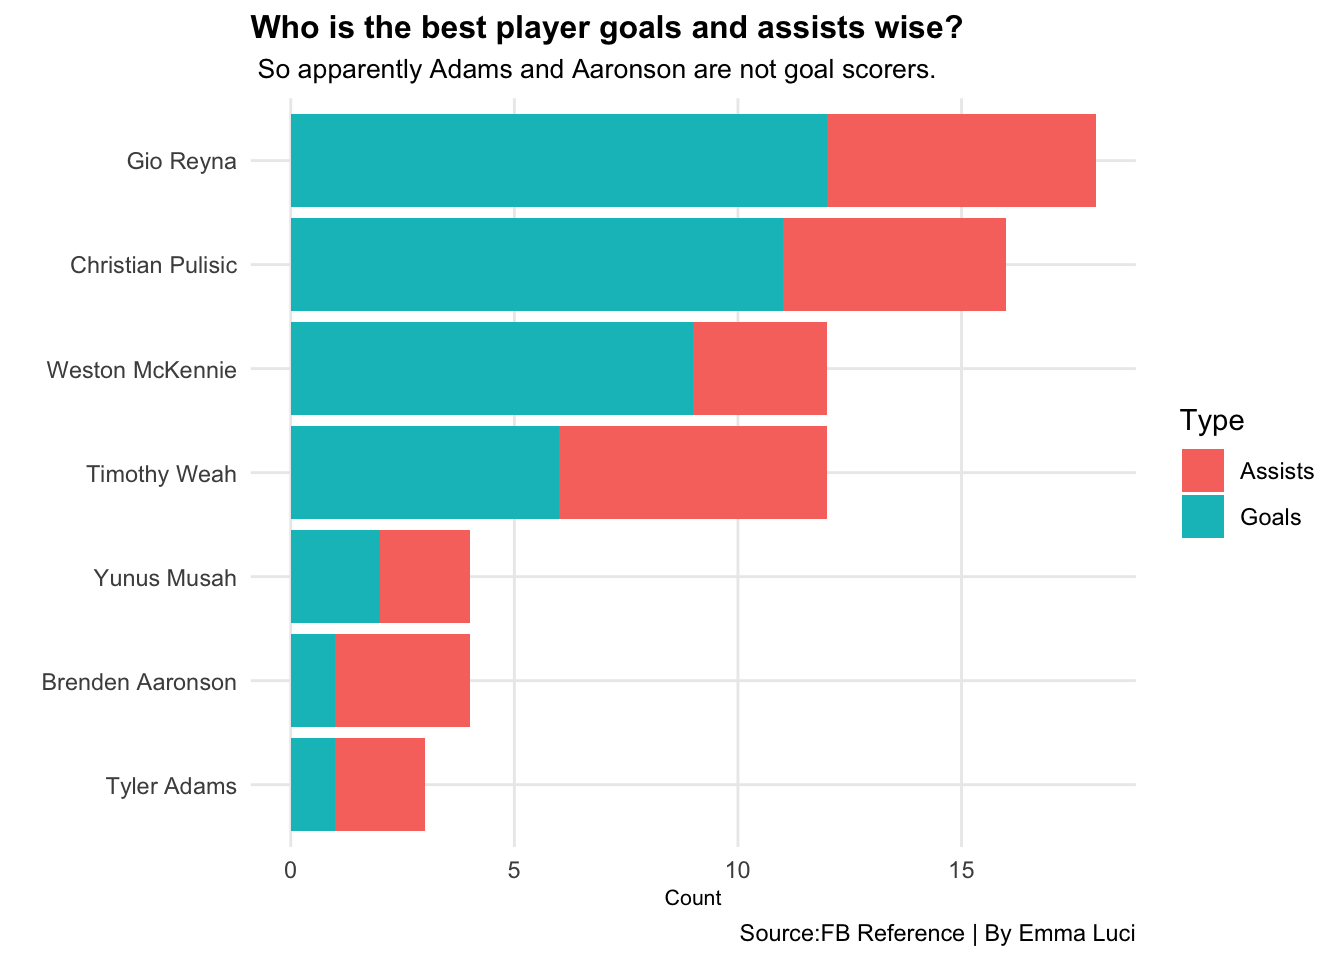
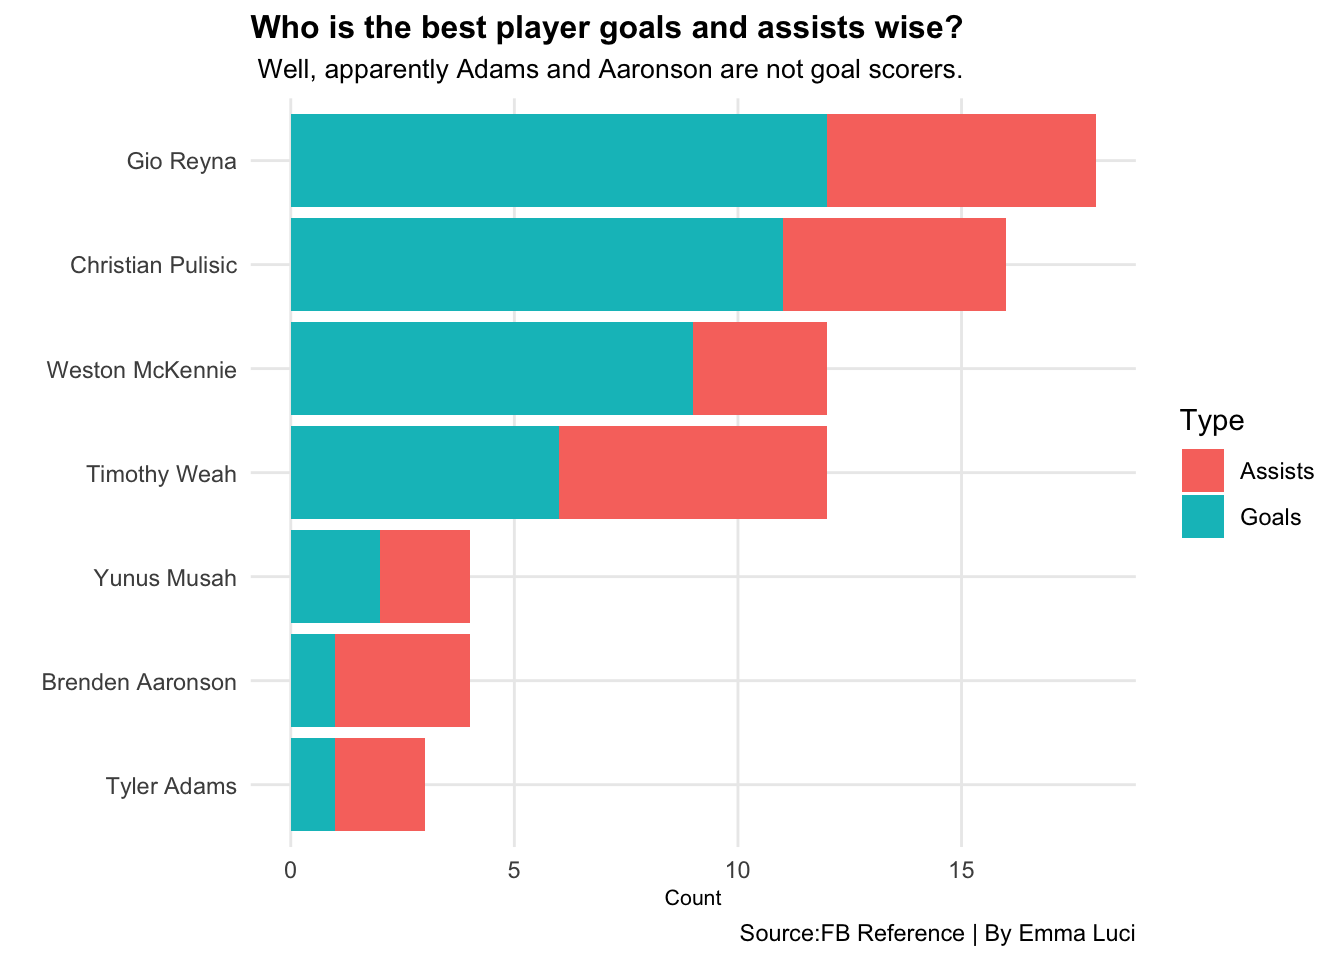
yeah

Changed region(s): [[0.1875, 0.0625, 0.7188, 0.0938]]

diff --git a/posts/christian-pulisic/index.html b/posts/christian-pulisic/index.html
@@ -233,11 +233,11 @@ code span.wa { color: #60a0b0; font-weight: bold; font-style: italic; } /* Warni
 </div>
 <details>
 <summary>Code</summary>
-<div class="sourceCode cell-code" id="cb5"><pre class="sourceCode r code-with-copy"><code class="sourceCode r"><span id="cb5-1"><a href="#cb5-1" aria-hidden="true" tabindex="-1"></a><span class="co">#this is where the start of blog would be for future edits in work </span></span></code><button title="Copy to Clipboard" class="code-copy-button"><i class="bi"></i></button></pre></div>
+<div class="sourceCode cell-code" id="cb5"><pre class="sourceCode r code-with-copy"><code class="sourceCode r"><span id="cb5-1"><a href="#cb5-1" aria-hidden="true" tabindex="-1"></a><span class="fu">library</span>(ggrepel)</span></code><button title="Copy to Clipboard" class="code-copy-button"><i class="bi"></i></button></pre></div>
 </details>
 </div>
-<p>intro to blog probs dont forget to add a picture to ur website</p>
-<p>Christian Pulisic, nicknamed Captain America by US fans, has been a men's national team star for years, but is he the best? If you don’t know who he is, you should. The poster boy from the World Cup '22 in Qatar, and compared to as the "Gareth Bale of Wales" from World Soccer Talk, Pulisic is known for his talents and for making his own way up through the ranks of Borrisa Dortmund from the age of 16. Eddie Johnson, a former US player who retired in 2015 said that Pulisic is the best player that he has seen since playing soccer as a kid in the States, and Johnson had played with big names like Claudio Reyna, Clint Dempsey, and Landon Donovan. "Where he's at now, with his experience and how he sees the game he's miles ahead of everyone else," Johnson said. Fans of Pulisic are dismayed with his move to Chelsea, with there being a bias against American players in Europe where their talent and potential often is amounted to much less hype in the foreign country. Because of Pulisic's natural talent, he should be starting for a top club. Unfortunately, his move to Chelsea is the last thing that he needed, going to a club that is notorious for often dispensing coaches. Since his time at Chelsea, he has seen three different coaches, none of which have trusted him to be a starter.&nbsp;</p>
+<p>dont forget to add a picture to ur website!!!</p>
+<p>Christian Pulisic, nicknamed Captain America by US fans, has been a men’s national team star for years, but is he the best? If you don’t know who he is, you should. The poster boy from the World Cup ’22 in Qatar, and compared to as the “Gareth Bale of Wales” from World Soccer Talk, Pulisic is known for his talents and for making his own way up through the ranks of Borrisa Dortmund from the age of 16. Eddie Johnson, a former US player who retired in 2015 said that Pulisic is the best player that he has seen since playing soccer as a kid in the States, and Johnson had played with big names like Claudio Reyna, Clint Dempsey, and Landon Donovan. “Where he’s at now, with his experience and how he sees the game he’s miles ahead of everyone else,” Johnson said. Fans of Pulisic are dismayed with his move to Chelsea, with there being a bias against American players in Europe where their talent and potential often is amounted to much less hype in the foreign country. Because of Pulisic’s natural talent, he should be starting for a top club. Unfortunately, his move to Chelsea is the last thing that he needed, going to a club that is notorious for often dispensing coaches. Since his time at Chelsea, he has seen three different coaches, none of which have trusted him to be a starter.</p>
 <p><br>
 </p>
 <div class="cell">
@@ -298,7 +298,7 @@ code span.wa { color: #60a0b0; font-weight: bold; font-style: italic; } /* Warni
 <span id="cb12-15"><a href="#cb12-15" aria-hidden="true" tabindex="-1"></a>  <span class="fu">coord_flip</span>() <span class="sc">+</span></span>
 <span id="cb12-16"><a href="#cb12-16" aria-hidden="true" tabindex="-1"></a><span class="fu">labs</span>(</span>
 <span id="cb12-17"><a href="#cb12-17" aria-hidden="true" tabindex="-1"></a>    <span class="at">title=</span><span class="st">"Who is the best player goals and assists wise?"</span>, </span>
-<span id="cb12-18"><a href="#cb12-18" aria-hidden="true" tabindex="-1"></a>    <span class="at">subtitle=</span><span class="st">" So apparently Adams and Aaronson are not goal scorers."</span>,</span>
+<span id="cb12-18"><a href="#cb12-18" aria-hidden="true" tabindex="-1"></a>    <span class="at">subtitle=</span><span class="st">" Well, apparently Adams and Aaronson are not goal scorers."</span>,</span>
 <span id="cb12-19"><a href="#cb12-19" aria-hidden="true" tabindex="-1"></a>    <span class="at">caption=</span><span class="st">"Source:FB Reference | By Emma Luci"</span>,</span>
 <span id="cb12-20"><a href="#cb12-20" aria-hidden="true" tabindex="-1"></a>    <span class="at">x=</span><span class="st">""</span>, </span>
 <span id="cb12-21"><a href="#cb12-21" aria-hidden="true" tabindex="-1"></a>    <span class="at">y=</span><span class="st">"Count"</span>) <span class="sc">+</span> </span>
@@ -314,31 +314,33 @@ code span.wa { color: #60a0b0; font-weight: bold; font-style: italic; } /* Warni
 <p><img src="index_files/figure-html/unnamed-chunk-7-1.png" class="img-fluid" width="672"></p>
 </div>
 </div>
-<p>Even though his talents are overlooked in Europe, dedicated US fans that have followed his journey know how skilled he is and the potential as a player that he holds still in club play. As a member of the national team, Pulisic has had great success since 2016. Compared to top players Reyna, McKennie, Weah, Musah, Aaronson, and Adams, Pulisic holds his own as a top goal-scorer and with assisted goals in games. Yet, Gio Reyna somehow has him beat numbers-wise in this area by just a tinch on the assists side, which could be expected in some instances. Players like Weah, Musah, Aaronson, and Adams seem to be more dominant in their assists as well, playing both midfield and forward positions on the pitch.</p>
+<p>Even though his talents are overlooked in Europe, dedicated US fans that have followed his journey know how skilled he is and the potential as a player that he holds still in club play. As a member of the national team, Pulisic has had great success since 2016. Compared to top players Reyna, McKennie, Weah, Musah, Aaronson, and Adams, Pulisic holds his own as a top goal-scorer and with assisted goals in games. Yet, Gio Reyna somehow has him beat numbers-wise in this area by just by a bit on the assists side, which could be expected in some instances. Players like Weah, Musah, Aaronson, and Adams seem to be more dominant in their assists as well, playing both midfield and forward positions on the pitch.</p>
 <p><br>
 </p>
 <div class="cell">
 <details>
 <summary>Code</summary>
-<div class="sourceCode cell-code" id="cb13"><pre class="sourceCode r code-with-copy"><code class="sourceCode r"><span id="cb13-1"><a href="#cb13-1" aria-hidden="true" tabindex="-1"></a><span class="co">#Encircling (Adams) on scatter plot to show who the best touches of American players</span></span>
+<div class="sourceCode cell-code" id="cb13"><pre class="sourceCode r code-with-copy"><code class="sourceCode r"><span id="cb13-1"><a href="#cb13-1" aria-hidden="true" tabindex="-1"></a><span class="co">#Encircling on scatter plot to show who the best touches of American players</span></span>
 <span id="cb13-2"><a href="#cb13-2" aria-hidden="true" tabindex="-1"></a>pulisic <span class="ot">&lt;-</span> americapossession <span class="sc">%&gt;%</span> <span class="fu">filter</span>(Player <span class="sc">==</span> <span class="st">"Christian Pulisic"</span> <span class="sc">|</span> Player <span class="sc">==</span> <span class="st">"Gio Reyna"</span>)</span>
 <span id="cb13-3"><a href="#cb13-3" aria-hidden="true" tabindex="-1"></a></span>
 <span id="cb13-4"><a href="#cb13-4" aria-hidden="true" tabindex="-1"></a><span class="fu">ggplot</span>() <span class="sc">+</span> </span>
 <span id="cb13-5"><a href="#cb13-5" aria-hidden="true" tabindex="-1"></a>  <span class="fu">geom_point</span>(<span class="at">data=</span>big5_player_possession, <span class="fu">aes</span>(<span class="at">x=</span>Mins_Per_90, <span class="at">y=</span>Touches_Touches), <span class="at">color=</span><span class="st">"grey"</span>) <span class="sc">+</span> </span>
 <span id="cb13-6"><a href="#cb13-6" aria-hidden="true" tabindex="-1"></a>  <span class="fu">geom_point</span>(<span class="at">data=</span>americapossession, <span class="fu">aes</span>(<span class="at">x=</span>Mins_Per_90, <span class="at">y=</span>Touches_Touches), <span class="at">color=</span><span class="st">"black"</span>) <span class="sc">+</span> </span>
-<span id="cb13-7"><a href="#cb13-7" aria-hidden="true" tabindex="-1"></a>  <span class="fu">geom_encircle</span>(<span class="at">data=</span>pulisic, <span class="fu">aes</span>(<span class="at">x=</span>Mins_Per_90, <span class="at">y=</span>Touches_Touches), <span class="at">s_shape=</span><span class="dv">0</span>, <span class="at">expand=</span><span class="dv">0</span>, <span class="at">colour=</span><span class="st">"red"</span>) <span class="sc">+</span> <span class="fu">labs</span>(</span>
-<span id="cb13-8"><a href="#cb13-8" aria-hidden="true" tabindex="-1"></a>    <span class="at">title=</span><span class="st">"Who has the best number of touches?"</span>, </span>
-<span id="cb13-9"><a href="#cb13-9" aria-hidden="true" tabindex="-1"></a>    <span class="at">subtitle=</span><span class="st">" Shockingly, we see that Pulisic and Reyna are not at the top."</span>,</span>
-<span id="cb13-10"><a href="#cb13-10" aria-hidden="true" tabindex="-1"></a>    <span class="at">caption=</span><span class="st">"Source:FB Reference | By Emma Luci"</span>,</span>
-<span id="cb13-11"><a href="#cb13-11" aria-hidden="true" tabindex="-1"></a>    <span class="at">x=</span><span class="st">"Mins_Per_90"</span>, </span>
-<span id="cb13-12"><a href="#cb13-12" aria-hidden="true" tabindex="-1"></a>    <span class="at">y=</span><span class="st">"Touches"</span>) <span class="sc">+</span> </span>
-<span id="cb13-13"><a href="#cb13-13" aria-hidden="true" tabindex="-1"></a><span class="fu">theme_minimal</span>() <span class="sc">+</span></span>
-<span id="cb13-14"><a href="#cb13-14" aria-hidden="true" tabindex="-1"></a>  <span class="fu">theme</span>(</span>
-<span id="cb13-15"><a href="#cb13-15" aria-hidden="true" tabindex="-1"></a>   <span class="at">plot.title =</span> <span class="fu">element_text</span>(<span class="at">size =</span> <span class="dv">14</span>, <span class="at">face =</span> <span class="st">"bold"</span>),</span>
-<span id="cb13-16"><a href="#cb13-16" aria-hidden="true" tabindex="-1"></a>    <span class="at">axis.title =</span> <span class="fu">element_text</span>(<span class="at">size =</span> <span class="dv">10</span>), </span>
-<span id="cb13-17"><a href="#cb13-17" aria-hidden="true" tabindex="-1"></a>    <span class="at">plot.subtitle =</span> <span class="fu">element_text</span>(<span class="at">size=</span><span class="dv">10</span>), </span>
-<span id="cb13-18"><a href="#cb13-18" aria-hidden="true" tabindex="-1"></a>    <span class="at">panel.grid.minor =</span> <span class="fu">element_blank</span>()</span>
-<span id="cb13-19"><a href="#cb13-19" aria-hidden="true" tabindex="-1"></a>    ) </span></code><button title="Copy to Clipboard" class="code-copy-button"><i class="bi"></i></button></pre></div>
+<span id="cb13-7"><a href="#cb13-7" aria-hidden="true" tabindex="-1"></a>  <span class="fu">geom_encircle</span>(<span class="at">data=</span>pulisic, <span class="fu">aes</span>(<span class="at">x=</span>Mins_Per_90, <span class="at">y=</span>Touches_Touches), <span class="at">s_shape=</span><span class="dv">0</span>, <span class="at">expand=</span><span class="dv">0</span>, <span class="at">colour=</span><span class="st">"red"</span>) <span class="sc">+</span></span>
+<span id="cb13-8"><a href="#cb13-8" aria-hidden="true" tabindex="-1"></a>  <span class="fu">geom_text_repel</span>(<span class="at">data=</span>pulisic, <span class="fu">aes</span>(<span class="at">x=</span>Mins_Per_90, <span class="at">y=</span>Touches_Touches, <span class="at">label=</span><span class="st">"pulisic"</span>)) <span class="sc">+</span> </span>
+<span id="cb13-9"><a href="#cb13-9" aria-hidden="true" tabindex="-1"></a>  <span class="fu">labs</span>(</span>
+<span id="cb13-10"><a href="#cb13-10" aria-hidden="true" tabindex="-1"></a>    <span class="at">title=</span><span class="st">"Which player has the best number of touches?"</span>, </span>
+<span id="cb13-11"><a href="#cb13-11" aria-hidden="true" tabindex="-1"></a>    <span class="at">subtitle=</span><span class="st">" Shockingly, we see that Pulisic and Reyna are not at the top."</span>,</span>
+<span id="cb13-12"><a href="#cb13-12" aria-hidden="true" tabindex="-1"></a>    <span class="at">caption=</span><span class="st">"Source:FB Reference | By Emma Luci"</span>,</span>
+<span id="cb13-13"><a href="#cb13-13" aria-hidden="true" tabindex="-1"></a>    <span class="at">x=</span><span class="st">"Mins_Per_90"</span>, </span>
+<span id="cb13-14"><a href="#cb13-14" aria-hidden="true" tabindex="-1"></a>    <span class="at">y=</span><span class="st">"Touches"</span>) <span class="sc">+</span> </span>
+<span id="cb13-15"><a href="#cb13-15" aria-hidden="true" tabindex="-1"></a><span class="fu">theme_minimal</span>() <span class="sc">+</span></span>
+<span id="cb13-16"><a href="#cb13-16" aria-hidden="true" tabindex="-1"></a>  <span class="fu">theme</span>(</span>
+<span id="cb13-17"><a href="#cb13-17" aria-hidden="true" tabindex="-1"></a>   <span class="at">plot.title =</span> <span class="fu">element_text</span>(<span class="at">size =</span> <span class="dv">14</span>, <span class="at">face =</span> <span class="st">"bold"</span>),</span>
+<span id="cb13-18"><a href="#cb13-18" aria-hidden="true" tabindex="-1"></a>    <span class="at">axis.title =</span> <span class="fu">element_text</span>(<span class="at">size =</span> <span class="dv">10</span>), </span>
+<span id="cb13-19"><a href="#cb13-19" aria-hidden="true" tabindex="-1"></a>    <span class="at">plot.subtitle =</span> <span class="fu">element_text</span>(<span class="at">size=</span><span class="dv">10</span>), </span>
+<span id="cb13-20"><a href="#cb13-20" aria-hidden="true" tabindex="-1"></a>    <span class="at">panel.grid.minor =</span> <span class="fu">element_blank</span>()</span>
+<span id="cb13-21"><a href="#cb13-21" aria-hidden="true" tabindex="-1"></a>    ) </span></code><button title="Copy to Clipboard" class="code-copy-button"><i class="bi"></i></button></pre></div>
 </details>
 <div class="cell-output cell-output-stderr">
 <pre><code>Warning: Removed 11 rows containing missing values (`geom_point()`).</code></pre>
@@ -347,7 +349,7 @@ code span.wa { color: #60a0b0; font-weight: bold; font-style: italic; } /* Warni
 <p><img src="index_files/figure-html/unnamed-chunk-8-1.png" class="img-fluid" width="672"></p>
 </div>
 </div>
-<p>Blog and make sure your labels are good</p>
+<p>Blogging now and make sure your labels are good here</p>
 <div class="cell">
 <details>
 <summary>Code</summary>
@@ -363,8 +365,8 @@ code span.wa { color: #60a0b0; font-weight: bold; font-style: italic; } /* Warni
 <span id="cb15-10"><a href="#cb15-10" aria-hidden="true" tabindex="-1"></a>      <span class="at">weight=</span>xG_Expected</span>
 <span id="cb15-11"><a href="#cb15-11" aria-hidden="true" tabindex="-1"></a>    )) <span class="sc">+</span> <span class="fu">facet_wrap</span>(<span class="sc">~</span>Squad) <span class="sc">+</span></span>
 <span id="cb15-12"><a href="#cb15-12" aria-hidden="true" tabindex="-1"></a><span class="fu">labs</span>(</span>
-<span id="cb15-13"><a href="#cb15-13" aria-hidden="true" tabindex="-1"></a>    <span class="at">title=</span><span class="st">"What player is the most valuale to their other league"</span>, </span>
-<span id="cb15-14"><a href="#cb15-14" aria-hidden="true" tabindex="-1"></a>    <span class="at">subtitle=</span><span class="st">"Meh we will see what happens."</span>,</span>
+<span id="cb15-13"><a href="#cb15-13" aria-hidden="true" tabindex="-1"></a>    <span class="at">title=</span><span class="st">"What player is the most valuable to their club team?"</span>, </span>
+<span id="cb15-14"><a href="#cb15-14" aria-hidden="true" tabindex="-1"></a>    <span class="at">subtitle=</span><span class="st">"Meh we will see what happens"</span>,</span>
 <span id="cb15-15"><a href="#cb15-15" aria-hidden="true" tabindex="-1"></a>    <span class="at">caption=</span><span class="st">"Source:FB Reference | By Emma Luci"</span>,</span>
 <span id="cb15-16"><a href="#cb15-16" aria-hidden="true" tabindex="-1"></a>    <span class="at">x=</span><span class="st">""</span>, </span>
 <span id="cb15-17"><a href="#cb15-17" aria-hidden="true" tabindex="-1"></a>    <span class="at">y=</span><span class="st">""</span>) <span class="sc">+</span> </span>
@@ -380,7 +382,7 @@ code span.wa { color: #60a0b0; font-weight: bold; font-style: italic; } /* Warni
 <p><img src="index_files/figure-html/unnamed-chunk-9-1.png" class="img-fluid" width="672"></p>
 </div>
 </div>
-<p>All of these well-known United States players are also unique in their skillset that they are able to transfer over when they play for their club teams.&nbsp;</p>
+<p>All of these well-known United States players are also unique in their skill sets that they are able to transfer over when they play for their club teams.</p>
 <p><br>
 </p>
 

diff --git a/index.html b/index.html
@@ -165,7 +165,7 @@ ul.task-list li input[type="checkbox"] {
 
 <div class="quarto-listing quarto-listing-container-default" id="listing-listing">
 <div class="list quarto-listing-default">
-<div class="quarto-post image-right" data-index="0" data-listing-date-sort="1651899600000" data-listing-file-modified-sort="1683054570484" data-listing-reading-time-sort="4.51">
+<div class="quarto-post image-right" data-index="0" data-listing-date-sort="1651899600000" data-listing-file-modified-sort="1683067978040" data-listing-reading-time-sort="4.47">
 <div class="thumbnail">
 <p><a href="./posts/christian-pulisic/index.html"> <img src="./posts/christian-pulisic/image.png" class="thumnail-image"> </a></p>
 </div>
@@ -193,7 +193,7 @@ Emma Luci
 </a>
 </div>
 </div>
-<div class="quarto-post image-right" data-index="1" data-listing-date-sort="1651899600000" data-listing-file-modified-sort="1683054533050" data-listing-reading-time-sort="4.51">
+<div class="quarto-post image-right" data-index="1" data-listing-date-sort="1651899600000" data-listing-file-modified-sort="1683067956576" data-listing-reading-time-sort="4.47">
 <div class="thumbnail">
 <p><a href="./posts/christian-pulisic/index.html"> <img src="./posts/christian-pulisic/image.png" class="thumnail-image"> </a></p>
 </div>
